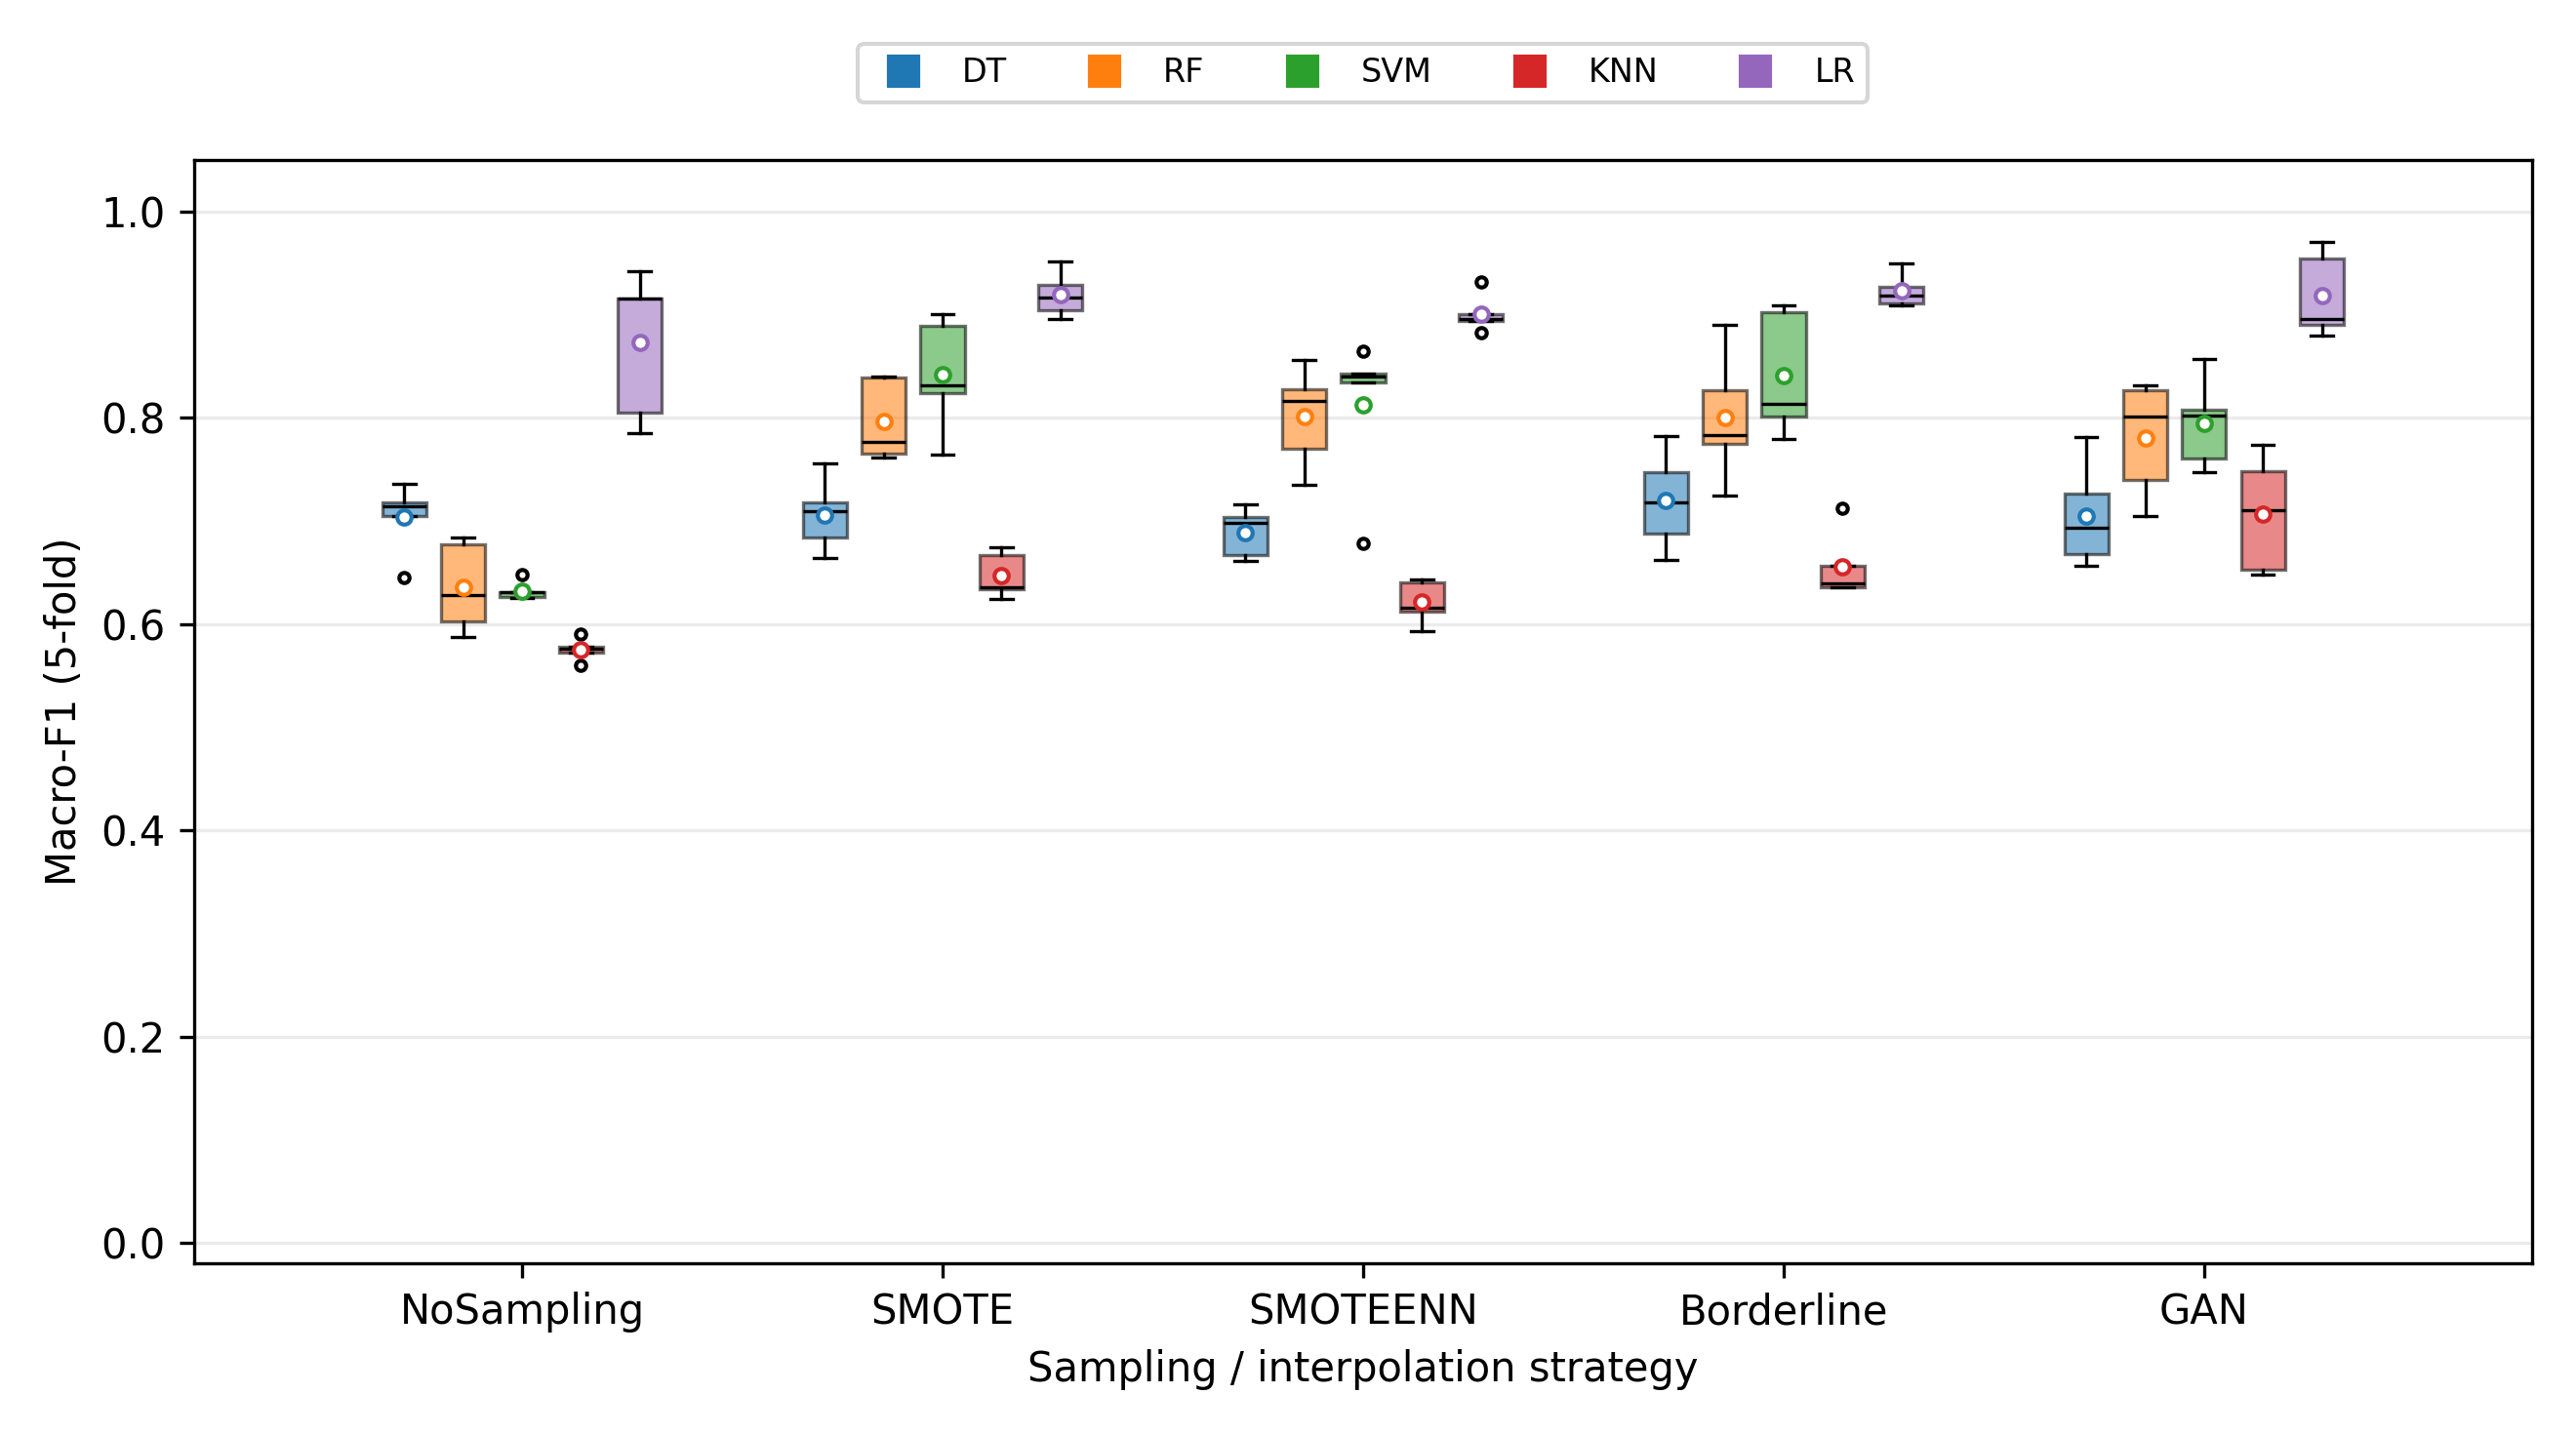
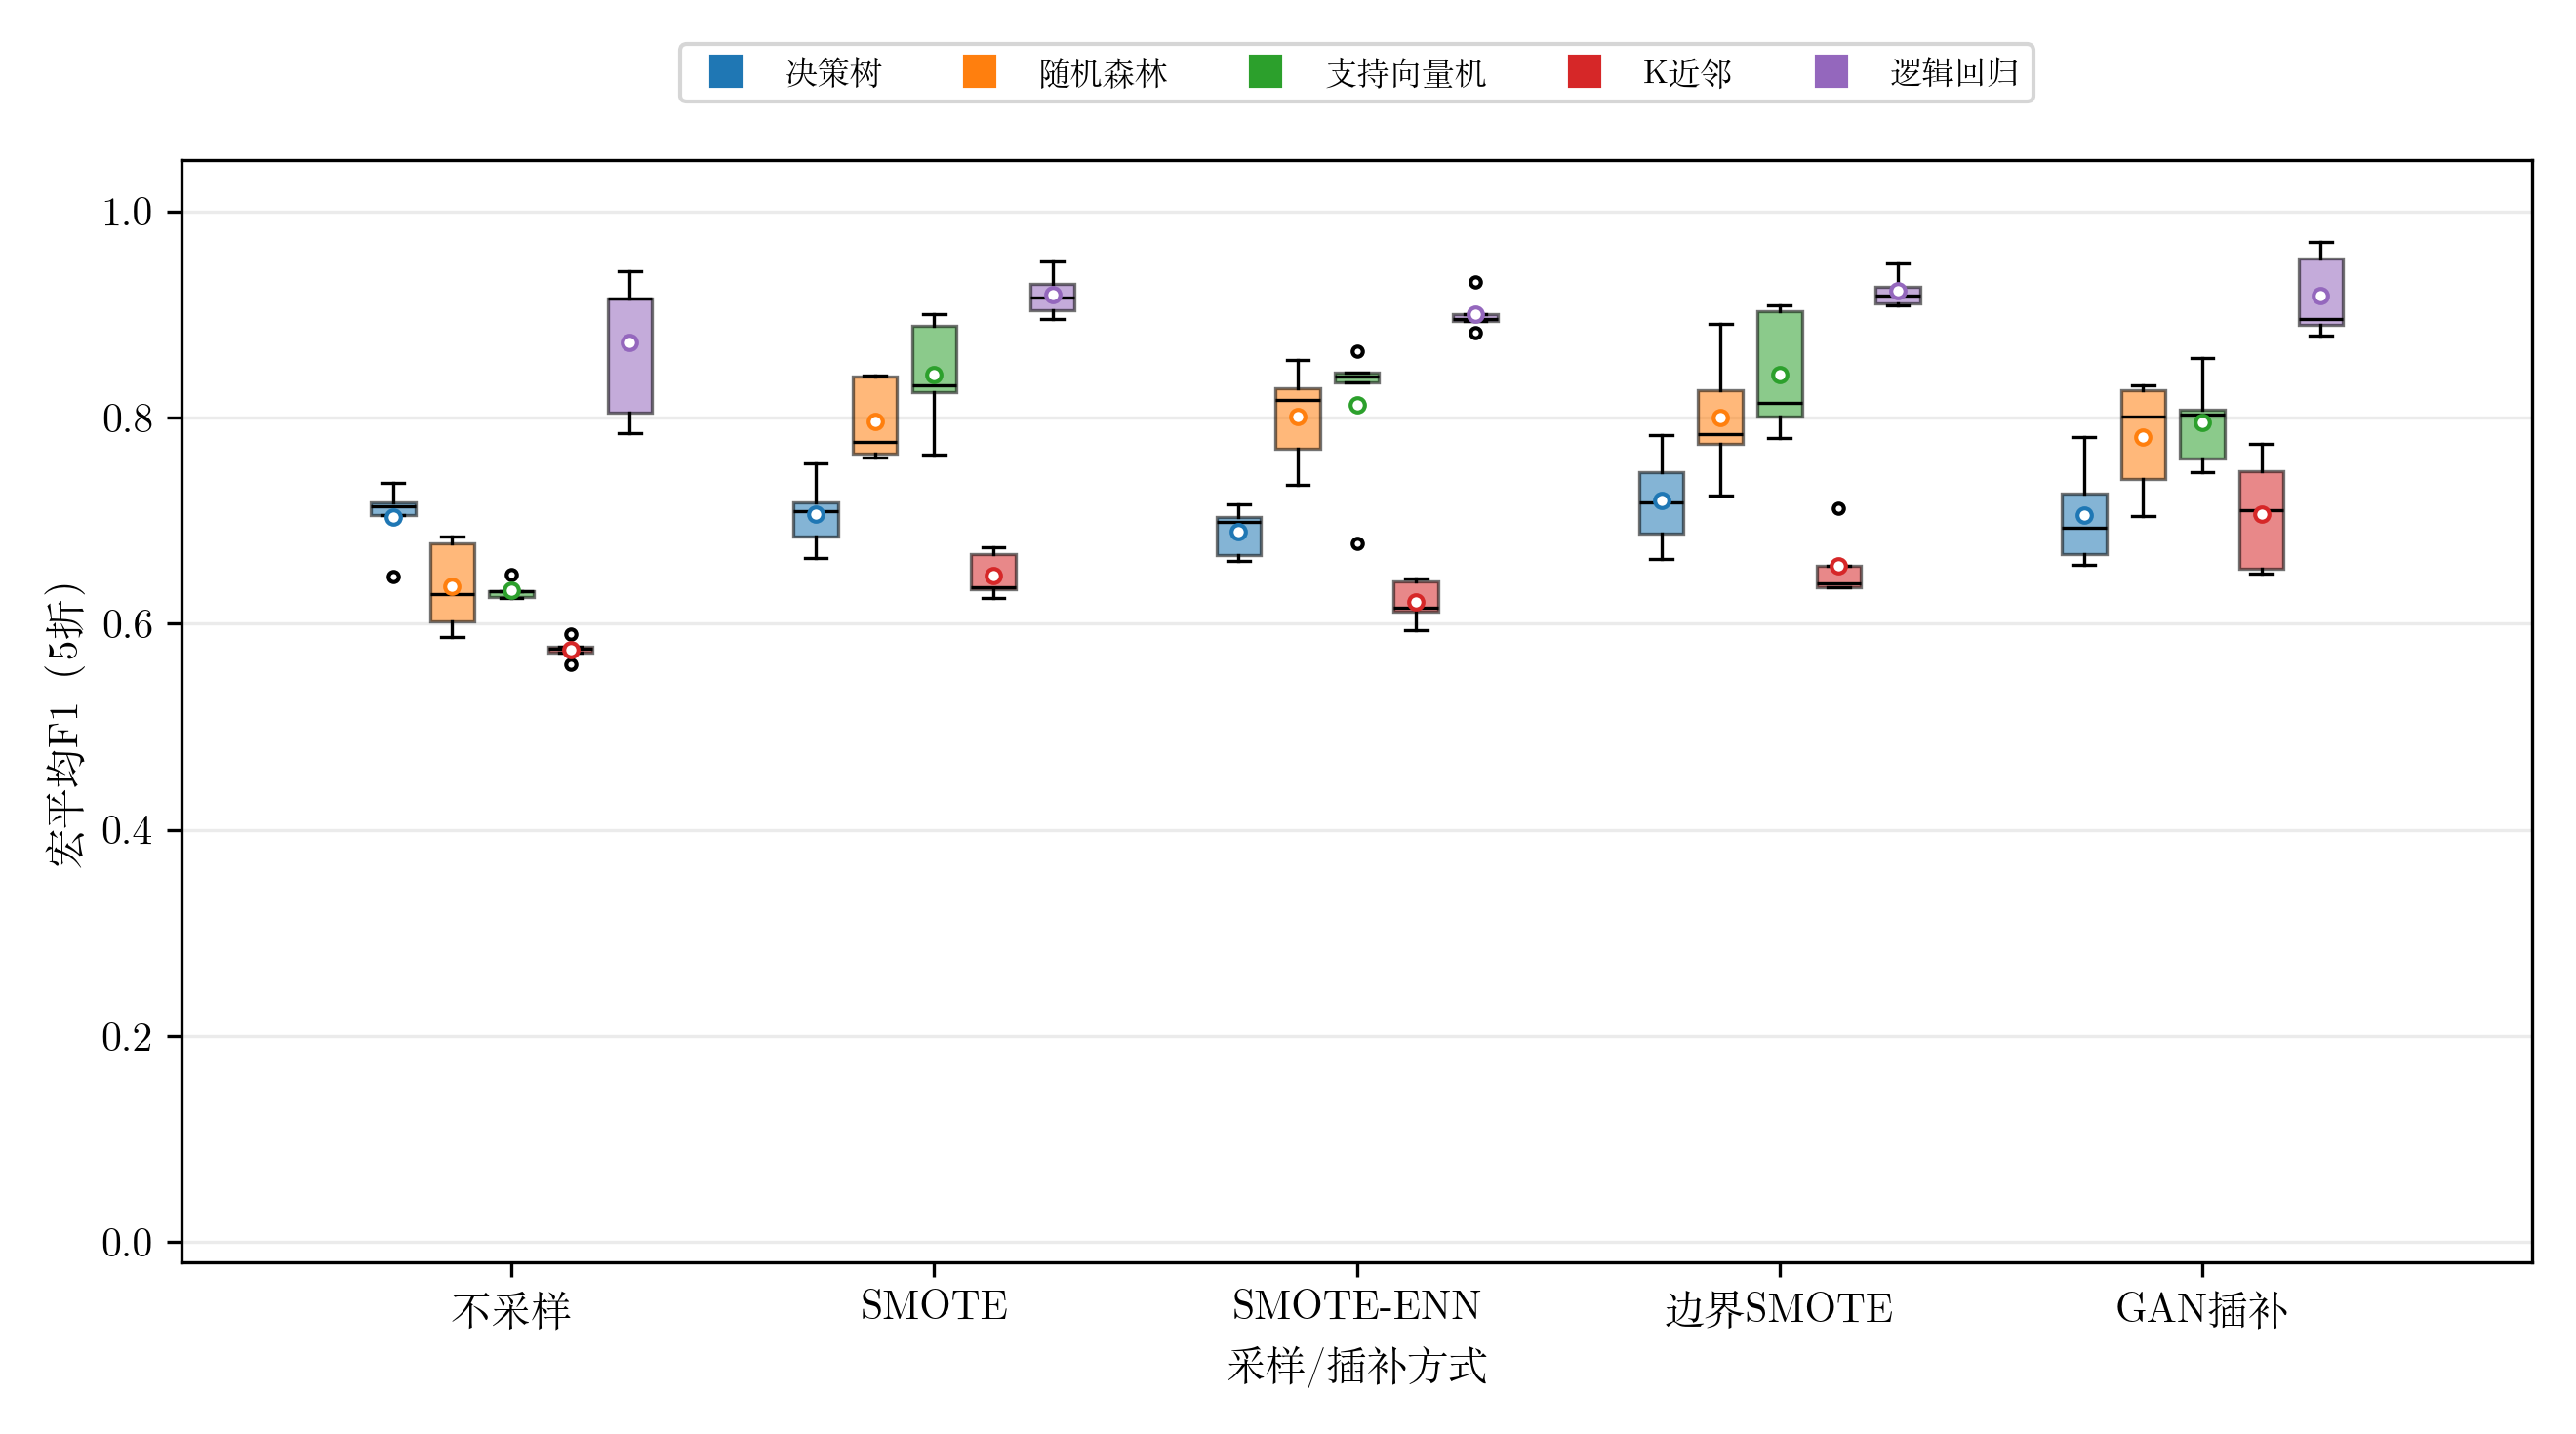
Localize paper chart and table labels

diff --git a/主要文件夹/01_代码/latex_cv_experiment.py b/主要文件夹/01_代码/latex_cv_experiment.py
@@ -6,6 +6,7 @@ import matplotlib.pyplot as plt
 import numpy as np
 import pandas as pd
 import torch
+from matplotlib import font_manager
 from sklearn.ensemble import RandomForestClassifier
 from sklearn.linear_model import LogisticRegression
 from sklearn.metrics import accuracy_score, f1_score, precision_score, recall_score
@@ -46,9 +47,9 @@ MODEL_FACTORIES = {
 METHOD_LABELS_ZH = {
     "NoSampling": "不采样",
     "SMOTE": "SMOTE",
-    "SMOTEENN": "SMOTEENN",
-    "BorderlineSMOTE": "BorderlineSMOTE",
-    "GAN": "GAN",
+    "SMOTEENN": "SMOTE-ENN",
+    "BorderlineSMOTE": "边界SMOTE",
+    "GAN": "GAN插补",
 }
 METHOD_LABELS_EN = {
     "NoSampling": "NoSampling",
@@ -78,6 +79,22 @@ def set_seed(seed: int) -> None:
     np.random.seed(seed)
     torch.manual_seed(seed)
     torch.use_deterministic_algorithms(False)
+
+
+def configure_chinese_font(project_dir: Path) -> None:
+    candidates = [
+        *sorted((project_dir / "04_latex" / "fonts").glob("*.otf")),
+        *sorted(Path("/tmp/tectonic-cache").glob("**/FandolSong-Regular.otf")),
+        *sorted(Path("/tmp/tectonic-cache").glob("**/FandolHei-Regular.otf")),
+    ]
+    for font_path in candidates:
+        if font_path.exists():
+            font_manager.fontManager.addfont(str(font_path))
+            family = font_manager.FontProperties(fname=str(font_path)).get_name()
+            plt.rcParams["font.family"] = family
+            plt.rcParams["axes.unicode_minus"] = False
+            return
+    plt.rcParams["axes.unicode_minus"] = False
 
 
 def geometric_mean(y_true: np.ndarray, y_pred: np.ndarray, labels: np.ndarray) -> float:
@@ -515,13 +532,13 @@ def plot_metric_boxplot(raw_df: pd.DataFrame, metric: str, ylabel: str, output_p
             marker="s",
             linestyle="",
             markersize=7,
-            label=MODEL_LABELS_EN[model_name],
+            label=MODEL_LABELS_ZH[model_name],
         )
         for i, model_name in enumerate(model_order)
     ]
     ax.set_xticks(base_positions)
-    ax.set_xticklabels([METHOD_LABELS_EN[m] for m in method_order])
-    ax.set_xlabel("Sampling / interpolation strategy")
+    ax.set_xticklabels([METHOD_LABELS_ZH[m] for m in method_order])
+    ax.set_xlabel("采样/插补方式")
     ax.set_ylabel(ylabel)
     ax.set_ylim(-0.02, 1.05)
     ax.grid(axis="y", alpha=0.25)
@@ -543,6 +560,7 @@ def main() -> None:
     table_dir = latex_dir / "tables"
     for directory in [result_dir, latex_dir, figure_dir, table_dir]:
         directory.mkdir(parents=True, exist_ok=True)
+    configure_chinese_font(project_dir)
 
     df = pd.read_csv(data_path)
     x = df[FEATURE_COLUMNS].to_numpy(dtype=np.float32)
@@ -615,9 +633,9 @@ def main() -> None:
     )
 
     build_latex_table(summary, table_dir / "cv_results_table.tex")
-    plot_metric_boxplot(raw_df, "High_F1", "High-quality F1 (5-fold)", figure_dir / "cv_box_high_f1.png")
-    plot_metric_boxplot(raw_df, "Macro_F1", "Macro-F1 (5-fold)", figure_dir / "cv_box_macro_f1.png")
-    plot_metric_boxplot(raw_df, "G_mean", "G-mean (5-fold)", figure_dir / "cv_box_gmean.png")
+    plot_metric_boxplot(raw_df, "High_F1", "高质量类F1（5折）", figure_dir / "cv_box_high_f1.png")
+    plot_metric_boxplot(raw_df, "Macro_F1", "宏平均F1（5折）", figure_dir / "cv_box_macro_f1.png")
+    plot_metric_boxplot(raw_df, "G_mean", "G-均值（5折）", figure_dir / "cv_box_gmean.png")
 
     best = summary.iloc[0]
     second = summary.iloc[1]

diff --git a/主要文件夹/04_latex/tables/cv_results_table.tex b/主要文件夹/04_latex/tables/cv_results_table.tex
@@ -9,28 +9,28 @@
 \toprule
 模型 & 采样/插补方式 & 高质量F1 & 高质量召回率 & 宏平均F1 & G-均值 \\
 \midrule
-\textbf{逻辑回归} & \textbf{BorderlineSMOTE} & \textbf{0.811$\pm$0.002} & \underline{0.975$\pm$0.003} & \textbf{0.923$\pm$0.000} & 0.974$\pm$0.000 \\
+\textbf{逻辑回归} & \textbf{边界SMOTE} & \textbf{0.811$\pm$0.002} & \underline{0.975$\pm$0.003} & \textbf{0.923$\pm$0.000} & 0.974$\pm$0.000 \\
 \underline{逻辑回归} & \underline{SMOTE} & \underline{0.801$\pm$0.004} & \textbf{1.000$\pm$0.000} & \underline{0.920$\pm$0.000} & \textbf{0.982$\pm$0.000} \\
-逻辑回归 & GAN & 0.793$\pm$0.013 & 0.818$\pm$0.030 & 0.918$\pm$0.002 & 0.919$\pm$0.004 \\
-逻辑回归 & SMOTEENN & 0.761$\pm$0.002 & \textbf{1.000$\pm$0.000} & 0.901$\pm$0.000 & \underline{0.976$\pm$0.000} \\
+逻辑回归 & GAN插补 & 0.793$\pm$0.013 & 0.818$\pm$0.030 & 0.918$\pm$0.002 & 0.919$\pm$0.004 \\
+逻辑回归 & SMOTE-ENN & 0.761$\pm$0.002 & \textbf{1.000$\pm$0.000} & 0.901$\pm$0.000 & \underline{0.976$\pm$0.000} \\
 逻辑回归 & 不采样 & 0.654$\pm$0.046 & 0.532$\pm$0.061 & 0.873$\pm$0.005 & 0.785$\pm$0.018 \\
 支持向量机 & SMOTE & 0.620$\pm$0.026 & 0.557$\pm$0.039 & 0.842$\pm$0.003 & 0.789$\pm$0.010 \\
-支持向量机 & BorderlineSMOTE & 0.616$\pm$0.029 & 0.561$\pm$0.032 & 0.842$\pm$0.004 & 0.794$\pm$0.008 \\
-随机森林 & SMOTEENN & 0.600$\pm$0.020 & 0.589$\pm$0.026 & 0.801$\pm$0.002 & 0.777$\pm$0.005 \\
-支持向量机 & SMOTEENN & 0.572$\pm$0.053 & 0.604$\pm$0.077 & 0.812$\pm$0.006 & 0.781$\pm$0.026 \\
+支持向量机 & 边界SMOTE & 0.616$\pm$0.029 & 0.561$\pm$0.032 & 0.842$\pm$0.004 & 0.794$\pm$0.008 \\
+随机森林 & SMOTE-ENN & 0.600$\pm$0.020 & 0.589$\pm$0.026 & 0.801$\pm$0.002 & 0.777$\pm$0.005 \\
+支持向量机 & SMOTE-ENN & 0.572$\pm$0.053 & 0.604$\pm$0.077 & 0.812$\pm$0.006 & 0.781$\pm$0.026 \\
 随机森林 & SMOTE & 0.565$\pm$0.018 & 0.482$\pm$0.038 & 0.797$\pm$0.002 & 0.728$\pm$0.008 \\
-随机森林 & BorderlineSMOTE & 0.555$\pm$0.031 & 0.457$\pm$0.048 & 0.800$\pm$0.004 & 0.718$\pm$0.013 \\
-随机森林 & GAN & 0.513$\pm$0.018 & 0.386$\pm$0.016 & 0.781$\pm$0.003 & 0.682$\pm$0.007 \\
-支持向量机 & GAN & 0.485$\pm$0.014 & 0.382$\pm$0.014 & 0.795$\pm$0.002 & 0.698$\pm$0.006 \\
-决策树 & BorderlineSMOTE & 0.479$\pm$0.032 & 0.532$\pm$0.053 & 0.720$\pm$0.002 & 0.707$\pm$0.008 \\
-决策树 & SMOTEENN & 0.474$\pm$0.003 & 0.589$\pm$0.019 & 0.689$\pm$0.001 & 0.713$\pm$0.003 \\
+随机森林 & 边界SMOTE & 0.555$\pm$0.031 & 0.457$\pm$0.048 & 0.800$\pm$0.004 & 0.718$\pm$0.013 \\
+随机森林 & GAN插补 & 0.513$\pm$0.018 & 0.386$\pm$0.016 & 0.781$\pm$0.003 & 0.682$\pm$0.007 \\
+支持向量机 & GAN插补 & 0.485$\pm$0.014 & 0.382$\pm$0.014 & 0.795$\pm$0.002 & 0.698$\pm$0.006 \\
+决策树 & 边界SMOTE & 0.479$\pm$0.032 & 0.532$\pm$0.053 & 0.720$\pm$0.002 & 0.707$\pm$0.008 \\
+决策树 & SMOTE-ENN & 0.474$\pm$0.003 & 0.589$\pm$0.019 & 0.689$\pm$0.001 & 0.713$\pm$0.003 \\
 决策树 & 不采样 & 0.470$\pm$0.007 & 0.511$\pm$0.021 & 0.704$\pm$0.001 & 0.695$\pm$0.005 \\
 决策树 & SMOTE & 0.468$\pm$0.013 & 0.561$\pm$0.008 & 0.706$\pm$0.001 & 0.720$\pm$0.002 \\
-决策树 & GAN & 0.457$\pm$0.029 & 0.486$\pm$0.024 & 0.705$\pm$0.003 & 0.686$\pm$0.003 \\
-K近邻 & GAN & 0.398$\pm$0.020 & 0.432$\pm$0.064 & 0.707$\pm$0.003 & 0.658$\pm$0.021 \\
-K近邻 & BorderlineSMOTE & 0.319$\pm$0.005 & 0.821$\pm$0.020 & 0.656$\pm$0.001 & 0.797$\pm$0.002 \\
+决策树 & GAN插补 & 0.457$\pm$0.029 & 0.486$\pm$0.024 & 0.705$\pm$0.003 & 0.686$\pm$0.003 \\
+K近邻 & GAN插补 & 0.398$\pm$0.020 & 0.432$\pm$0.064 & 0.707$\pm$0.003 & 0.658$\pm$0.021 \\
+K近邻 & 边界SMOTE & 0.319$\pm$0.005 & 0.821$\pm$0.020 & 0.656$\pm$0.001 & 0.797$\pm$0.002 \\
 K近邻 & SMOTE & 0.301$\pm$0.002 & 0.846$\pm$0.003 & 0.647$\pm$0.000 & 0.801$\pm$0.000 \\
-K近邻 & SMOTEENN & 0.262$\pm$0.002 & 0.846$\pm$0.003 & 0.621$\pm$0.000 & 0.782$\pm$0.001 \\
+K近邻 & SMOTE-ENN & 0.262$\pm$0.002 & 0.846$\pm$0.003 & 0.621$\pm$0.000 & 0.782$\pm$0.001 \\
 随机森林 & 不采样 & 0.089$\pm$0.015 & 0.050$\pm$0.005 & 0.636$\pm$0.002 & 0.189$\pm$0.067 \\
 支持向量机 & 不采样 & 0.000$\pm$0.000 & 0.000$\pm$0.000 & 0.632$\pm$0.000 & 0.000$\pm$0.000 \\
 K近邻 & 不采样 & 0.000$\pm$0.000 & 0.000$\pm$0.000 & 0.575$\pm$0.000 & 0.000$\pm$0.000 \\

diff --git a/主要文件夹/04_latex/main.tex b/主要文件夹/04_latex/main.tex
@@ -22,17 +22,17 @@
 \maketitle
 
 \begin{abstract}
-大学英语教学质量评估数据通常具有明显的类别不平衡特征，尤其是高质量样本数量稀少，容易导致分类模型在总体准确率较高的同时忽略关键少数类。针对这一问题，本文以包含1650条样本的大学英语教学评价数据为研究对象，选取13维数值型学习行为与评价反馈特征，比较不采样、SMOTE、SMOTEENN、BorderlineSMOTE和轻量表格GAN五类采样/插补策略在决策树、随机森林、支持向量机、K近邻和逻辑回归五种模型上的表现。实验采用5折分层交叉验证，并以高质量类F1、宏平均F1和G-均值作为主要评价指标。结果显示，逻辑回归与BorderlineSMOTE组合在高质量类F1上取得最优结果（0.811），逻辑回归与SMOTE组合取得第二结果（0.801）；同时，SMOTE在高质量类召回率与G-均值上表现突出，说明过采样插值策略能够显著缓解极端类别不平衡造成的少数类识别不足。研究表明，在大学英语教学质量评估场景中，模型选择与采样/插补策略需要联合优化，不能仅依赖总体准确率判断模型有效性。
+大学英语教学质量评估数据通常具有明显的类别不平衡特征，尤其是高质量样本数量稀少，容易导致分类模型在总体准确率较高的同时忽略关键少数类。针对这一问题，本文以包含1650条样本的大学英语教学评价数据为研究对象，选取13维数值型学习行为与评价反馈特征，比较不采样、SMOTE、SMOTE-ENN、边界SMOTE和轻量表格GAN插补五类采样/插补策略在决策树、随机森林、支持向量机、K近邻和逻辑回归五种模型上的表现。实验采用5折分层交叉验证，并以高质量类F1、宏平均F1和G-均值作为主要评价指标。结果显示，逻辑回归与边界SMOTE组合在高质量类F1上取得最优结果（0.811），逻辑回归与SMOTE组合取得第二结果（0.801）；同时，SMOTE在高质量类召回率与G-均值上表现突出，说明过采样插值策略能够显著缓解极端类别不平衡造成的少数类识别不足。研究表明，在大学英语教学质量评估场景中，模型选择与采样/插补策略需要联合优化，不能仅依赖总体准确率判断模型有效性。
 \end{abstract}
 
-\noindent\textbf{关键词：}大学英语教学质量评估；类别不平衡；SMOTE；BorderlineSMOTE；GAN；5折交叉验证
+\noindent\textbf{关键词：}大学英语教学质量评估；类别不平衡；SMOTE；边界SMOTE；GAN插补；5折交叉验证
 
 \section{引言}
 随着教育信息化与学习分析技术的发展，教学质量评估逐渐从单一的主观评价转向多源数据驱动的综合建模。大学英语课程具有学习过程长、课堂互动频繁、线上线下行为并存等特点，学生出勤、作业完成、平台登录、视频学习、课堂参与以及教师反馈等数据能够从多个角度反映教学质量。然而，在真实评价数据中，高质量类别样本往往远少于中质量和低质量样本，形成极端类别不平衡问题。
 
 在类别不平衡条件下，传统分类模型倾向于学习多数类分布，从而在整体准确率较高的情况下仍然难以识别少数类。对于大学英语教学质量评估而言，高质量教学样本的识别具有直接的教学诊断价值。如果模型无法稳定识别高质量类别，就难以为教学经验总结、课堂改进和质量保障提供可靠依据。因此，本文关注的核心问题是：在高质量样本极少的情况下，何种模型与采样/插补方式组合能够更有效地识别少数类教学质量样本。
 
-本文在原有SMOTE、SMOTEENN和BorderlineSMOTE比较的基础上，进一步补充轻量表格GAN生成式插补方法，并使用5折分层交叉验证重新评估不同模型与不同插补方式的组合表现。为避免准确率掩盖少数类识别失败，本文重点报告高质量类F1、宏平均F1和G-均值。
+本文在原有SMOTE、SMOTE-ENN和边界SMOTE比较的基础上，进一步补充轻量表格GAN生成式插补方法，并使用5折分层交叉验证重新评估不同模型与不同插补方式的组合表现。为避免准确率掩盖少数类识别失败，本文重点报告高质量类F1、宏平均F1和G-均值。
 
 \section{数据与特征}
 本文使用的大学英语教学质量评估数据集包含1650条样本。原始数据包括学生、课程、教师、学期等管理字段，以及出勤率、作业完成率、平均作业分数、考试分数、平均测验分数、参与频率、学习管理系统登录次数、平均会话时长、视频完成率、自我评估分数、同行反馈分数、教师反馈分数和参与度指数等数值型指标。为避免模型记忆具体学生、教师或课程批次，本文未将身份类字段作为预测变量，最终使用13维数值特征建模。
@@ -43,7 +43,7 @@
 \subsection{采样/插补策略}
 本文将重采样、基于插值的过采样以及生成式样本补充统一表述为采样/插补策略，并比较以下五类方法。
 
-\textbf{不采样（NoSampling）}直接使用原始训练集训练模型，用于观察类别不平衡对各类模型的基础影响。
+\textbf{不采样}直接使用原始训练集训练模型，用于观察类别不平衡对各类模型的基础影响。
 
 \textbf{SMOTE}在少数类样本及其近邻之间进行线性插值，生成合成样本，从而提高少数类在训练集中的密度。其基本形式为
 \begin{equation}
@@ -51,11 +51,11 @@
 \end{equation}
 其中$x_i$为少数类样本，$x_j$为同类近邻样本。
 
-\textbf{BorderlineSMOTE}优先选择位于决策边界附近的少数类样本进行插值扩增，重点增强容易被多数类覆盖的边界区域。
+\textbf{边界SMOTE}优先选择位于决策边界附近的少数类样本进行插值扩增，重点增强容易被多数类覆盖的边界区域。
 
-\textbf{SMOTEENN}先使用SMOTE生成合成样本，再使用编辑近邻规则清理边界噪声样本。该方法兼具过采样和欠采样特征，但在类别高度重叠时也可能删除有价值的边界样本。
+\textbf{SMOTE-ENN}先使用SMOTE生成合成样本，再使用编辑近邻规则清理边界噪声样本。该方法兼具过采样和欠采样特征，但在类别高度重叠时也可能删除有价值的边界样本。
 
-\textbf{轻量表格GAN}面向高质量类别构建生成器与判别器，在少数类特征空间中生成补充样本。考虑到高质量训练样本数量极少，本文未将GAN样本扩增至多数类规模，而是采用适度扩增策略，以降低过度生成导致的边界假阳性风险。
+\textbf{轻量表格GAN插补}面向高质量类别构建生成器与判别器，在少数类特征空间中生成补充样本。考虑到高质量训练样本数量极少，本文未将GAN样本扩增至多数类规模，而是采用适度扩增策略，以降低过度生成导致的边界假阳性风险。
 
 \subsection{分类模型}
 本文比较五种常用机器学习分类器：决策树、随机森林、支持向量机、K近邻和逻辑回归。决策树和K近邻对局部样本分布较敏感；随机森林通过集成学习降低单模型方差；支持向量机通过核函数刻画非线性边界；逻辑回归虽然形式较简单，但在高维标准化特征与插值样本共同作用下通常具有较好的稳定性。
@@ -76,9 +76,9 @@
 
 \input{tables/cv_results_table.tex}
 
-从高质量类F1看，逻辑回归+BorderlineSMOTE取得最优结果，为0.811；逻辑回归+SMOTE位列第二，为0.801。两者均明显高于不采样条件下的逻辑回归结果0.654，说明边界插值和常规SMOTE均能显著提高高质量样本识别能力。逻辑回归+GAN的高质量F1为0.793，低于BorderlineSMOTE和SMOTE，但高于其他大多数模型组合，表明生成式插补具有一定有效性，但在样本极少时仍需要谨慎控制生成规模。
+从高质量类F1看，逻辑回归+边界SMOTE取得最优结果，为0.811；逻辑回归+SMOTE位列第二，为0.801。两者均明显高于不采样条件下的逻辑回归结果0.654，说明边界插值和常规SMOTE均能显著提高高质量样本识别能力。逻辑回归+GAN插补的高质量F1为0.793，低于边界SMOTE和SMOTE，但高于其他大多数模型组合，表明生成式插补具有一定有效性，但在样本极少时仍需要谨慎控制生成规模。
 
-图\ref{fig:high-f1}展示了不同模型在不同采样/插补方式下的高质量类F1箱线图。箱体反映5折交叉验证中各折结果的分布，白色圆点表示均值。逻辑回归在SMOTE、BorderlineSMOTE和GAN下均保持较强表现；随机森林和支持向量机在不采样条件下对高质量类别识别不足，使用SMOTE类方法后明显改善；K近邻虽然在采样后召回率提升，但精确率下降较明显，导致高质量F1仍然偏低。
+图\ref{fig:high-f1}展示了不同模型在不同采样/插补方式下的高质量类F1箱线图。箱体反映5折交叉验证中各折结果的分布，白色圆点表示均值。逻辑回归在SMOTE、边界SMOTE和GAN插补下均保持较强表现；随机森林和支持向量机在不采样条件下对高质量类别识别不足，使用SMOTE类方法后明显改善；K近邻虽然在采样后召回率提升，但精确率下降较明显，导致高质量F1仍然偏低。
 
 \begin{figure}[H]
     \centering
@@ -87,7 +87,7 @@
     \label{fig:high-f1}
 \end{figure}
 
-图\ref{fig:macro-f1}显示了宏平均F1的箱线图。逻辑回归在多数采样/插补方式下仍保持优势，说明其不仅提高了高质量类别识别能力，也没有显著牺牲中质量和低质量类别的整体表现。相比之下，K近邻在SMOTEENN等方法下虽然提升了少数类召回率，但宏平均F1仍受多数边界误判影响。
+图\ref{fig:macro-f1}显示了宏平均F1的箱线图。逻辑回归在多数采样/插补方式下仍保持优势，说明其不仅提高了高质量类别识别能力，也没有显著牺牲中质量和低质量类别的整体表现。相比之下，K近邻在SMOTE-ENN等方法下虽然提升了少数类召回率，但宏平均F1仍受多数边界误判影响。
 
 \begin{figure}[H]
     \centering
@@ -96,7 +96,7 @@
     \label{fig:macro-f1}
 \end{figure}
 
-图\ref{fig:gmean}给出了G-均值箱线图。逻辑回归+SMOTE的G-均值均值最高，为0.982；逻辑回归+SMOTEENN位列第二，为0.976。该结果表明，如果研究目标更强调各类别召回率均衡，SMOTE和SMOTEENN具有较强优势；如果更强调高质量类F1的精确率与召回率折中，BorderlineSMOTE更优。
+图\ref{fig:gmean}给出了G-均值箱线图。逻辑回归+SMOTE的G-均值均值最高，为0.982；逻辑回归+SMOTE-ENN位列第二，为0.976。该结果表明，如果研究目标更强调各类别召回率均衡，SMOTE和SMOTE-ENN具有较强优势；如果更强调高质量类F1的精确率与召回率折中，边界SMOTE更优。
 
 \begin{figure}[H]
     \centering
@@ -108,12 +108,12 @@
 \section{讨论}
 实验结果说明，大学英语教学质量评估中的高质量类别识别并非单纯依赖更复杂模型即可解决。随机森林和支持向量机在多数情况下具有较强分类能力，但在高质量样本极少时，如果缺少合适的采样/插补策略，仍容易出现少数类召回不足。逻辑回归在标准化特征和插值样本支持下表现稳定，说明当特征本身能够反映学习行为差异时，较简单的线性模型也可以取得较好的少数类识别结果。
 
-BorderlineSMOTE在高质量F1上的优势表明，高质量样本更可能分布在中质量样本附近的边界区域，而不是形成完全独立的特征簇。大学英语教学中的高质量课堂往往表现为出勤、作业、平台学习、互动反馈等多项指标的综合改善，因此其特征空间与中质量课堂存在重叠。针对边界样本进行重点插值，有助于模型更清楚地学习高质量与中质量之间的判别边界。
+边界SMOTE在高质量F1上的优势表明，高质量样本更可能分布在中质量样本附近的边界区域，而不是形成完全独立的特征簇。大学英语教学中的高质量课堂往往表现为出勤、作业、平台学习、互动反馈等多项指标的综合改善，因此其特征空间与中质量课堂存在重叠。针对边界样本进行重点插值，有助于模型更清楚地学习高质量与中质量之间的判别边界。
 
 GAN插补在本实验中取得了较高但并非最优的高质量F1。原因可能在于高质量训练样本数量过少，生成模型难以充分学习少数类内部的多样性；同时，若生成样本过多，可能会扩大高质量类别的边界并增加误判。因此，在教育数据挖掘的小样本不平衡场景中，生成式插补应作为补充方法，并与分层交叉验证、错分样本分析共同报告。
 
 \section{结论}
-本文使用LaTeX重写并重新组织了大学英语教学质量评估中的类别不平衡研究，补充了完整的5折分层交叉验证实验。结果表明，逻辑回归+BorderlineSMOTE在高质量类F1上表现最优，逻辑回归+SMOTE表现第二；若以G-均值衡量类别召回均衡性，逻辑回归+SMOTE最优。总体来看，采样/插补方式对少数类识别能力具有决定性影响，大学英语教学质量评估模型应优先报告高质量类F1、宏平均F1和G-均值，而不应仅依据总体准确率判断模型优劣。
+本文使用LaTeX重写并重新组织了大学英语教学质量评估中的类别不平衡研究，补充了完整的5折分层交叉验证实验。结果表明，逻辑回归+边界SMOTE在高质量类F1上表现最优，逻辑回归+SMOTE表现第二；若以G-均值衡量类别召回均衡性，逻辑回归+SMOTE最优。总体来看，采样/插补方式对少数类识别能力具有决定性影响，大学英语教学质量评估模型应优先报告高质量类F1、宏平均F1和G-均值，而不应仅依据总体准确率判断模型优劣。
 
 后续研究可进一步引入更稳定的条件表格GAN、扩散模型或代价敏感学习方法，并结合课程教学专家知识对错分样本进行解释，从而提升模型在真实教学质量保障场景中的可用性。
 